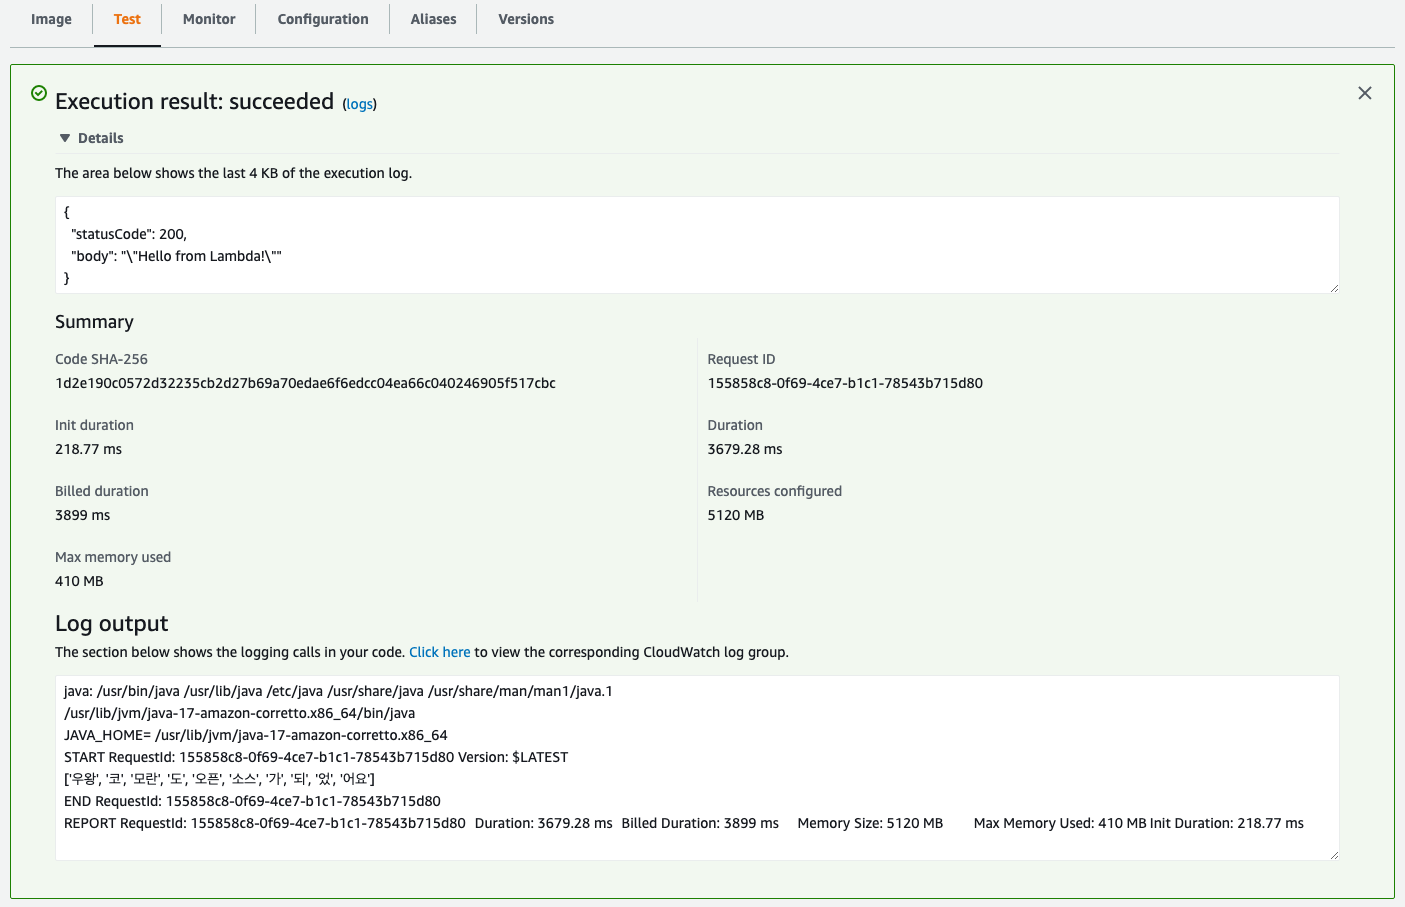
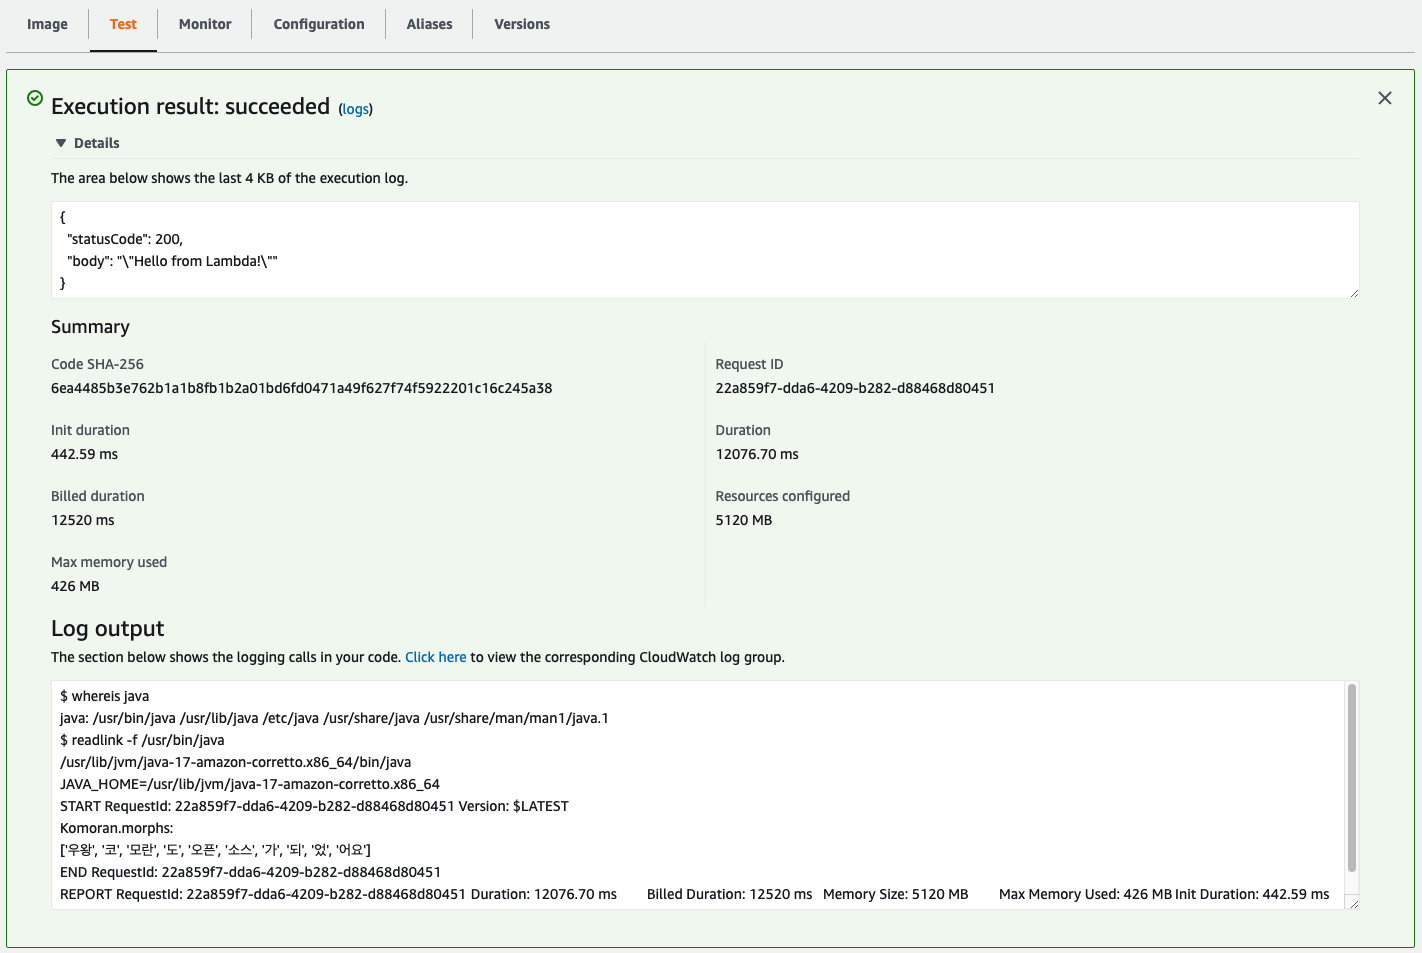
update a test run result in Lambda custom container

diff --git a/lambda/lambda-custom-container/app.py b/lambda/lambda-custom-container/app.py
@@ -51,7 +51,10 @@ class LambdaCustomContainerStack(Stack):
       "LambdaCustomContainerEcrRepo", repository_name=ecr_repo_name)
 
     lambda_fn = aws_lambda.Function(self, "CustomContainerLambdaFunction",
-      code=aws_lambda.Code.from_ecr_image(repository=custom_container_ecr_repo),
+      code=aws_lambda.Code.from_ecr_image(repository=custom_container_ecr_repo,
+        # The image tag or digest to use when pulling the image from ECR (digests must start with sha256:)
+        tag_or_digest='latest' # default: 'latest'
+      ),
       #XXX: handler must be `Handler.FROM_IMAGE` when using image asset for Lambda function
       handler=aws_lambda.Handler.FROM_IMAGE,
       #XXX: runtime must be `Runtime.FROM_IMAGE` when using image asset for Lambda function

diff --git a/lambda/lambda-custom-container/custom_container/app/app.py b/lambda/lambda-custom-container/custom_container/app/app.py
@@ -5,14 +5,19 @@
 import json
 import os
 
+print("$ whereis java")
 os.system("whereis java")
+
+print("$ readlink -f /usr/bin/java")
 os.system("readlink -f /usr/bin/java")
-print("JAVA_HOME=", os.getenv("JAVA_HOME", "Not exist"))
+
+print(f"\nJAVA_HOME={os.getenv('JAVA_HOME', 'Non-exist')}")
 
 def lambda_handler(event, context):
   from konlpy.tag import Komoran
 
   komoran = Komoran()
+  print("\nKomoran.morphs:")
   print(komoran.morphs(u'우왕 코모란도 오픈소스가 되었어요'))
 
   # TODO implement
